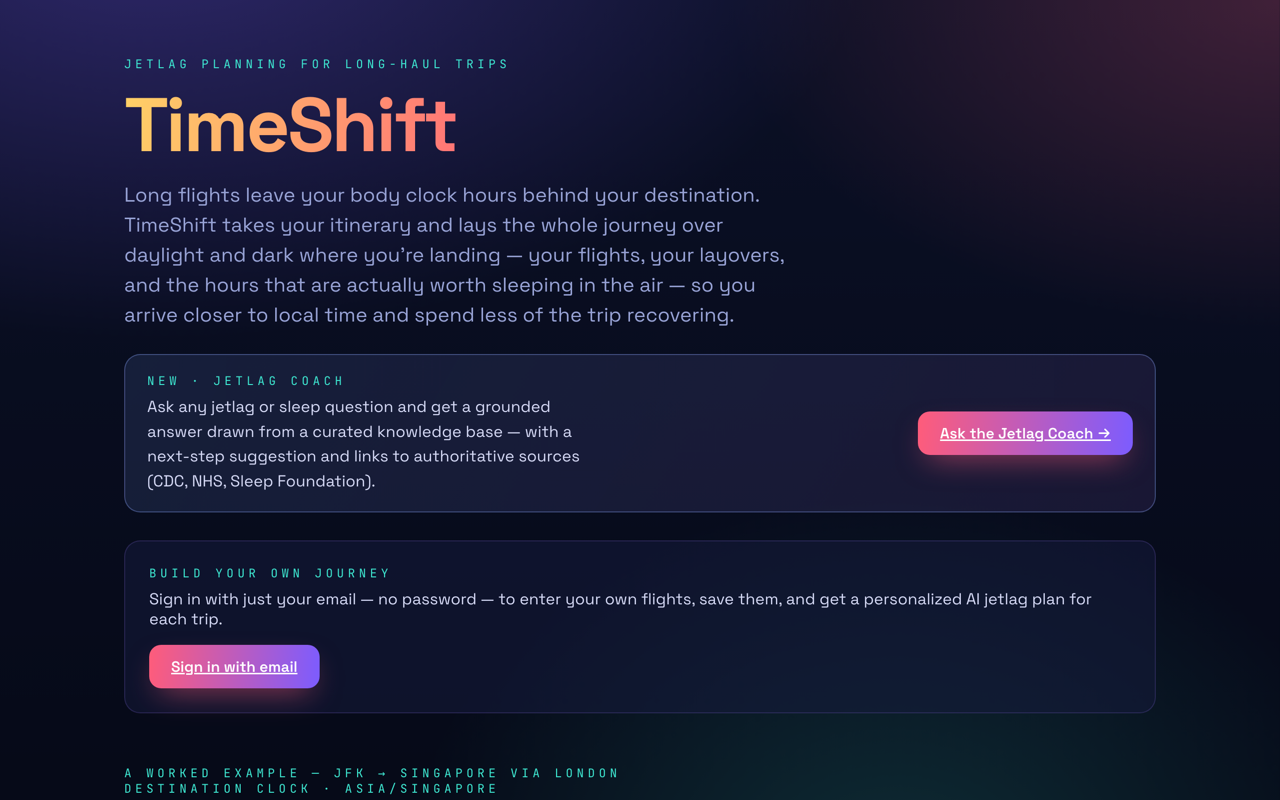
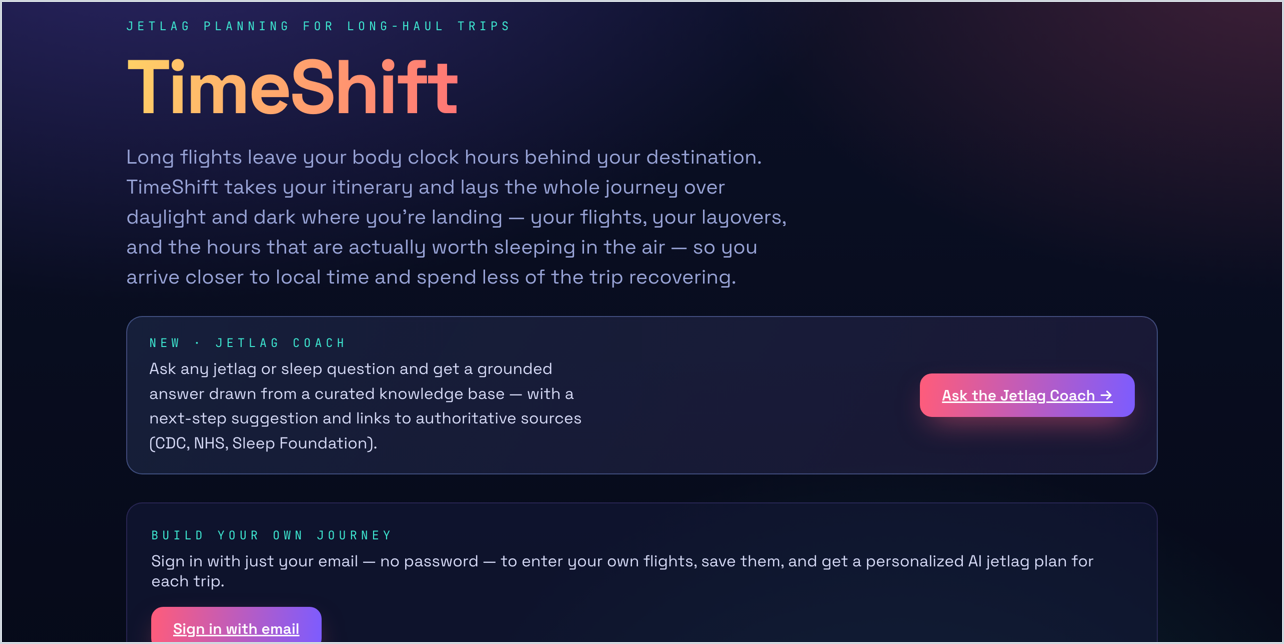
docs: deduplicate the README; crop and frame the hero (#39)
- The colored-screenshot list repeated the log list line-for-line — replaced
  by a one-paragraph convention note; every log link stays
- The three AI features each restated the same I/O-boundary contract — now
  stated once ('The AI boundary — one rule, three features') with per-feature
  sections keeping only their unique mechanics
- Instructor-facing 'Day 1 Deliverables' table becomes a Specs paragraph;
  'Local Development (build phase)' drops the stale phase tag
- Hero cropped to its content band and given a hairline border so it reads
  as a framed screenshot on both GitHub themes

diff --git a/README.md b/README.md
@@ -16,8 +16,8 @@ throughout, with a documented Red → Green → Refactor cycle on the temporal e
 
 **Current state (August 2026):** CI runs typecheck, lint, the full Vitest suite,
 and a production build on every push and pull request
-([`.github/workflows/ci.yml`](.github/workflows/ci.yml)). The home page now
-carries two public showcase trips — NY → Singapore (`+12.0h`) and a LAX → Sydney
+([`.github/workflows/ci.yml`](.github/workflows/ci.yml)). The home page carries
+two public showcase trips — NY → Singapore (`+12.0h`) and a LAX → Sydney
 date-line crossing that surfaces `crossesDateLine` in the UI (US-E3). The
 Jetlag Coach degrades to a grounded extractive answer when the live model call
 fails (US-R). Playwright specs cover both showcases and the coach
@@ -37,34 +37,29 @@ itself for demo-morning checks.
 | Testing      | Vitest (TDD: Red-Green-Refactor)                  |
 | Time/zones   | Luxon (IANA tz database) + SunCalc (sunrise/sunset)|
 
----
+## Specs
 
-## Day 1 Deliverables (for review before build)
-
-These are the specs due before any code is written. Each instructor requirement
-maps to its own document:
-
-| Instructor requirement              | Document                              |
-|-------------------------------------|---------------------------------------|
-| User Stories                        | [`docs/USER_STORIES.md`](docs/USER_STORIES.md) |
-| Acceptance Criteria                 | [`docs/ACCEPTANCE_CRITERIA.md`](docs/ACCEPTANCE_CRITERIA.md) |
-| Specifications                      | [`docs/SPECIFICATIONS.md`](docs/SPECIFICATIONS.md) |
-| Prompts for writing Tests (TDD plan)| [`docs/TDD_PLAN.md`](docs/TDD_PLAN.md) |
-| Context file (guardrails & rules)   | [`CLAUDE.md`](CLAUDE.md)              |
+The build was specified before it was written: user stories in
+[`docs/USER_STORIES.md`](docs/USER_STORIES.md), acceptance criteria in
+[`docs/ACCEPTANCE_CRITERIA.md`](docs/ACCEPTANCE_CRITERIA.md), technical
+specifications in [`docs/SPECIFICATIONS.md`](docs/SPECIFICATIONS.md), the
+test-writing plan in [`docs/TDD_PLAN.md`](docs/TDD_PLAN.md), and the operating
+contract (guardrails, TDD law, AI boundary) in [`CLAUDE.md`](CLAUDE.md).
 
 ---
 
 ## Test Evidence (TDD)
 
-> Populated during the sprint from real runs. Captures are numbered **per unit** in
+> Captured from real runs during the sprint. Captures are numbered **per unit** in
 > `docs/TDD_PLAN.md` order (`NN-name`), so the numbering tracks the units built rather
-> than one entry per phase. Only links to committed files appear below; unbuilt phases
-> are listed as pending.
-
-### TDD cycle logs (Red → Green → Refactor)
+> than one entry per phase.
 
 Each unit's failing and passing runs are piped to `docs/logs/` and committed
-alongside the code that produced them.
+alongside the code that produced them. **Every log below also exists as a colored
+screenshot** in `docs/screenshots/` under the same `NN-name` — red runs render the
+failing assertions in red, green runs the passing suite in green, both produced
+from the same run as the log via `npm run capture -- <NN-name-(red|green)> <vitest args>`
+(`scripts/capture-tdd.sh` + `scripts/render-tdd.mjs`).
 
 **Phase 0 — Harness**
 
@@ -121,7 +116,7 @@ alongside the code that produced them.
 
 - Scale helper (time → x) — [`20-scale-red.txt`](docs/logs/20-scale-red.txt) → [`20-scale-green.txt`](docs/logs/20-scale-green.txt)
 
-**AI advice feature (US-F1)** — the deterministic glue, driven Red → Green against a **mocked** model client (no key required):
+**AI advice feature (US-F1)** — the deterministic glue, driven Red → Green against a **mocked** model client:
 
 - Prompt carries the facts — [`10-ai-prompt-red.txt`](docs/logs/10-ai-prompt-red.txt) → [`10-ai-prompt-green.txt`](docs/logs/10-ai-prompt-green.txt)
 - Prompt branch coverage — [`15-ai-prompt-branches-green.txt`](docs/logs/15-ai-prompt-branches-green.txt) (green only — pins westward/IDL/no-sleep branches)
@@ -160,128 +155,83 @@ captured from real runs: [`21-full-suite-green.txt`](docs/logs/21-full-suite-gre
 (statements/branches/functions/lines all 100% across `lib/engine/` + `lib/ai/`, with
 `lib/ai/client.ts` excluded as the live-network module).
 
-### TDD cycle screenshots (colored Red → Green)
+---
 
-Each run above is also captured as a colored screenshot — produced from the same run as
-its log via `npm run capture -- <NN-name-(red|green)> <vitest args>` (see
-`scripts/capture-tdd.sh` + `scripts/render-tdd.mjs`). Red runs render failing tests and
-assertion errors in red; green runs render the passing suite in green. Images share the
-`NN-name` numbering of the logs:
+## The AI boundary — one rule, three features
 
-- Sanity check — `docs/screenshots/00-sanity-green.png`
-- Offsets (EST/EDT) — `docs/screenshots/01-offsets-red.png` → `docs/screenshots/01-offsets-green.png`
-- Spring-forward gap — `docs/screenshots/02-springforward-red.png` → `docs/screenshots/02-springforward-green.png`
-- Fall-back ambiguous hour — `docs/screenshots/03-fallback-green.png` (green only — see note above)
-- Duration across leap day — `docs/screenshots/04-leapyear-red.png` → `docs/screenshots/04-leapyear-green.png`
-- Add-year clamping — `docs/screenshots/05-addyear-red.png` → `docs/screenshots/05-addyear-green.png`
-- West crossing (Tokyo → LA) — `docs/screenshots/06-idl-tokyo-red.png` → `docs/screenshots/06-idl-green.png`
-- Non-crossing guard (JFK → LHR) — `docs/screenshots/06-idl-noncrossing-red.png` → `docs/screenshots/06-idl-green.png`
-- East crossing leap (LA → Sydney) — `docs/screenshots/07-idl-sydney-red.png` → `docs/screenshots/07-idl-sydney-green.png`
-- Sunrise/sunset tiling — `docs/screenshots/08-arcs-red.png` → `docs/screenshots/08-arcs-green.png`
-- Segments + layover axis — `docs/screenshots/09-timeline-red.png` → `docs/screenshots/09-timeline-green.png`
-- Red-eye sleep window — `docs/screenshots/16-sleep-redeye-red.png` → `docs/screenshots/16-sleep-redeye-green.png`
-- Daytime hop / layover (green only) — `docs/screenshots/17-sleep-daytime-green.png`, `docs/screenshots/18-sleep-layover-green.png`
-- Timeline scale helper — `docs/screenshots/20-scale-red.png` → `docs/screenshots/20-scale-green.png`
-- AI prompt / parse / generate (US-F1) — `docs/screenshots/10-ai-prompt-*.png`, `11-ai-parse-ok-*.png`, `12-ai-parse-bad-*.png`, `13-ai-generate-ok-*.png`, `14-ai-generate-fail-*.png`, `15-ai-prompt-branches-green.png`
-- Engine → facts adapter — `docs/screenshots/19-ai-facts-red.png` → `docs/screenshots/19-ai-facts-green.png`
+Every AI-adjacent feature follows the same contract (CLAUDE.md §13): the
+deterministic surface (prompt assembly, parsing, orchestration, retrieval,
+validation) is pure, server-only, driven Red → Green against **mocked** clients,
+and held at **100% coverage** including malformed-response and failure branches.
+Exactly one module per feature touches the network; each is excluded from
+coverage with an explicit `/* v8 ignore file */` pragma and exercised only in
+the live demo. Keys live in `.env.local` (gitignored); `.env.example` documents
+variable names with no values. **The suite and coverage pass with no key
+present**, and live model output is never snapshot-asserted — it is
+non-deterministic by nature.
 
-### AI advice feature — what is mocked-and-tested vs live-and-demo-only
+### AI advice (US-F1) — live-verified
 
-> The engine and the AI glue (prompt assembly, response parsing, orchestration)
-> are unit-tested deterministically with a **mocked** model client; the suite runs
-> with no API key. The **live model call** is exercised in the demo with a real
-> key. Model output is non-deterministic by nature, so it is never snapshot-asserted.
-
-`lib/ai/` is server-only (CLAUDE.md §13). `facts.ts`, `prompt.ts`, `parse.ts`, and
-`advice.ts` are pure and held at 100% coverage — including the malformed-response and
-client-error branches. `lib/ai/client.ts` is the single module that touches the network
-(the Google Gen AI SDK); it is excluded from coverage with an explicit `/* v8 ignore file */`
-pragma and is exercised only in the demo. The API key lives in `.env.local` (gitignored);
-`.env.example` documents the variable name with no value. Tests and coverage pass with no
-key present.
-
-**Verified live.** With a real `GEMINI_API_KEY` set, the panel makes a genuine per-trip
-Gemini call (`gemini-3.1-flash-lite`, with a fastest-first fallback chain that drops to
-lighter models on a rate limit) that narrates the engine's computed facts — the screenshot
-below quotes the 13-hour shift and the exact in-flight sleep window:
+With a real `GEMINI_API_KEY` set, the per-trip panel makes a genuine Gemini call
+(`gemini-3.1-flash-lite`, with a fastest-first fallback chain that drops to
+lighter models on a rate limit) that narrates the engine's computed facts — the
+screenshot quotes the 13-hour shift and the exact in-flight sleep window. The
+network module is `lib/ai/client.ts`; without a key the timeline renders fully
+and only the "Get my jetlag plan" button degrades.
 
 ![Live AI-generated plan](docs/screenshots/app-ai-live.png)
 
-### Jetlag Coach (grounded RAG) — what is mocked-and-tested vs live-and-demo-only
+### Jetlag Coach (US-R) — grounded RAG with verifiable citations
 
-> A standalone `/coach` page answers a free-form jetlag question **only** from
-> TimeShift's curated knowledge base: it retrieves the most relevant passages,
-> grounds the answer in them, adds a **next-step follow-up**, **cites verifiable
-> external sources** (CDC, NHS, Sleep Foundation, …), and **refuses honestly**
-> when the question falls outside the KB.
+A standalone `/coach` page answers a free-form jetlag question **only** from
+TimeShift's curated knowledge base: **55 hand-authored markdown docs** under
+[`docs/kb/`](docs/kb/), chunked by `##` heading (~220 passages), each carrying
+YAML frontmatter that names a real authoritative source. The coach cites **those
+external links** (CDC, NHS, Sleep Foundation, …) — never an internal filename,
+and never anything the model invented: citations derive from the *retrieved*
+docs' metadata, so a fabricated source is impossible by construction. Every
+answer includes a grounded **next-step follow-up**.
 
-**Retrieval is grounded and the citations are verifiable (AC-R1/R3).** The
-knowledge base is **55 hand-authored markdown docs** under [`docs/kb/`](docs/kb/),
-chunked by `##` heading (~220 passages). Each doc carries YAML frontmatter naming a
-real, authoritative source (an org title + URL), and the coach cites **those
-external links** — never the internal filename, and never anything the model made
-up. Citations are derived from the *retrieved* docs' metadata, so the model cannot
-fabricate a source by construction. Retrieval is **semantic** — Google embeddings +
-cosine over precomputed chunk vectors (`docs/kb/kb-embeddings.json`) — when a key
-and those vectors are present, and falls back to a **lexical TF-IDF-cosine** search
-when not, so the feature works **keyless**. A refusal gate (`decideAnswerable`)
-drops any question whose best passage doesn't clear the threshold *before* any
-model call (AC-R2). Every answer also includes a **follow-up**: the single most
-logical next step, grounded in the same retrieved context.
-
-**Mocked-and-unit-tested (no key, 100% coverage).** `lib/rag/` (chunking, vector
-search, lexical fallback, refusal gate) and the `lib/ai/` coach glue
-(`buildGroundedPrompt`, `parseGroundedResponse`, `answerQuestion`) are pure and
-held at **100%** — including the malformed-response and generation-failure
-branches. The two I/O shells, `lib/rag/embed.ts` (the query-embedding network
-call) and `lib/rag/corpus.ts` (filesystem KB load), are the only modules excluded
-from coverage, each with an explicit `/* v8 ignore file */` pragma (CLAUDE.md
-§13). The whole suite and coverage pass with **no API key** (AC-R4/R5).
-
-**Live-and-demo-only.** Two things spend a real key: regenerating the KB vectors
-(`npm run embed:kb`, model `gemini-embedding-001` at 768 dims) and the answer
-**generation** (the same `GEMINI_API_KEY` and Gemini client as the advice
-feature). Keyless, the coach still answers and cites sources, composing the
-answer **extractively** from the retrieved passages; with a key it upgrades to an
-LLM-written answer — the **Sources are identical either way**, since they come
-from retrieval, not the model. The refusal gate is **path-aware**: embedding
-cosine and TF-IDF cosine sit on different scales, so each path has its own
-threshold (`COACH_THRESHOLD_SEMANTIC` ≈ 0.62, `COACH_THRESHOLD_LEXICAL` ≈ 0.25),
-both env-overridable. On the 55-doc KB the semantic path separates cleanly
-(on-topic ≈0.75–0.82 vs off-topic ≈0.49–0.52); the keyless lexical fallback is
-weaker, so it gates conservatively. Model output is non-deterministic, so it is
-never snapshot-asserted; the E2E (below) runs keyless for a deterministic grounded
-answer + refusal.
+Retrieval is **semantic** (Google embeddings + cosine over precomputed vectors
+in `docs/kb/kb-embeddings.json`) when a key and vectors are present, with a
+**lexical TF-IDF-cosine fallback** so the feature works keyless — composing the
+answer extractively; with a key it upgrades to an LLM-written answer, and the
+**Sources are identical either way** since they come from retrieval, not the
+model. A refusal gate (`decideAnswerable`) drops any question whose best passage
+misses the threshold *before* any model call (AC-R2). The gate is
+**path-aware** — embedding cosine and TF-IDF cosine sit on different scales, so
+each path has its own env-overridable threshold (`COACH_THRESHOLD_SEMANTIC` ≈
+0.62, `COACH_THRESHOLD_LEXICAL` ≈ 0.25); on the 55-doc KB the semantic path
+separates cleanly (on-topic ≈0.75–0.82 vs off-topic ≈0.49–0.52), and the weaker
+lexical path gates conservatively. Network/IO shells: `lib/rag/embed.ts` (query
+embedding) and `lib/rag/corpus.ts` (filesystem KB load); regenerating vectors is
+`npm run embed:kb` (`gemini-embedding-001`, 768 dims). The E2E runs keyless for
+a deterministic grounded answer + refusal.
 
 ![Grounded coach answer with sources](docs/screenshots/e2e-coach-grounded.png)
 
-### Real flight selection — what is mocked-and-tested vs live-and-demo-only
+### Real flight selection — search, pick, and the leg fills itself
 
-> Rather than hand-typing airports and times, a traveler searches **real flights** by
-> route + date, gets a sortable list, and picks one — the leg is filled with accurate
-> scheduled times, IANA zones, terminals, and coordinates, so layovers compute from real
-> gaps and input errors disappear. The manual builder remains as a fallback.
-
-`lib/flights/` mirrors the AI boundary (CLAUDE.md §13): `validate.ts`, `parse.ts`,
-`sort.ts`, `status.ts`, `coords.ts`, and `cache.ts` are pure/deterministic and held at
-**100% coverage** — including malformed-response, missing-field, IDL, and TTL branches.
-`lib/flights/client.ts` is the single module that touches the network (AviationStack); it
-is excluded from coverage with a `/* v8 ignore file */` pragma and exercised only in the
-demo. The search route is session-gated, validates params before any upstream call, and
-serves a **6-hour DB cache** (`FlightQueryCache`) to protect the free tier's ~100 req/month.
-The key lives in `.env.local` (gitignored); `.env.example` documents the name only. **The
-suite and coverage pass with no key** — keyless, the route returns a friendly error and the
-UI falls back to manual entry.
+Rather than hand-typing airports and times, a traveler searches **real flights**
+by route + date, gets a sortable list, and picks one — the leg fills with
+accurate scheduled times, IANA zones, terminals, and coordinates, so layovers
+compute from real gaps. The manual builder remains as a fallback. `lib/flights/`
+(`validate.ts`, `parse.ts`, `sort.ts`, `status.ts`, `coords.ts`, `cache.ts`) is
+the pure surface — including malformed-response, missing-field, IDL, and TTL
+branches; `lib/flights/client.ts` is the network module (AviationStack). The
+search route is session-gated, validates params before any upstream call, and
+serves a **6-hour DB cache** (`FlightQueryCache`) to protect the free tier's
+~100 req/month — keyless, the route returns a friendly error and the UI falls
+back to manual entry. A leg departing within ~48h also shows a **live status
+badge** (on-schedule / delayed / cancelled); trips planned weeks out have no
+delay data yet, so future legs show scheduled-only by design. The free tier is
+HTTP-only — a paid HTTPS plan is recommended for production.
 
 ![Flight search in the builder](docs/screenshots/flight-search-builder.png)
 
-A leg whose departure is within ~48h additionally shows a **live status badge**
-(on-schedule / delayed / cancelled) from the same client — a trip planned weeks out has no
-delay data yet, so future legs show scheduled-only by design. **Live-and-demo-only:** the
-free tier is HTTP-only (a paid HTTPS plan is recommended for production), the live call
-needs a real `AVIATIONSTACK_API_KEY`, and AviationStack output is never snapshot-asserted.
+---
 
-### Data layer
+## Data layer
 
 Five tables — `User 1→* Trip 1→* FlightSegment` plus `User 1→* Session` (for auth) and a
 standalone `FlightQueryCache` (the flight-search TTL cache) — defined in
@@ -296,7 +246,7 @@ ownership-scoped `findFirst` with an ordered `include` on segments. Schema, migr
 the thin query layer are configuration/integration, not TDD'd — the engine remains the TDD
 showcase.
 
-### End-to-end verification
+## End-to-end verification
 
 The running app, captured from `http://localhost:3000/` via a headless browser. The
 landing pairs a trip builder with a fully-worked example:
@@ -311,19 +261,16 @@ ownership-scoped fetch → engine → render) and lands on a per-trip page:
 
 The pages were asserted against the engine's headline numbers — trip name, computed clock
 shift (`+12.0h` for the NY → Singapore showcase), destination axis labels, and the in-air
-sleep window over the destination's night. The **"AI-generated" panel is present** and
-degrades cleanly without a key; its live model call is demo-only (it needs `GEMINI_API_KEY`
-in `.env.local`) and is never snapshot-asserted.
-
-These numbers are now locked in by a committed Playwright regression spec
-(`e2e/regression.spec.ts`, run with `npm run test:e2e`): it seeds the showcase trip, opens
-the running app, and re-asserts the trip name, the `+12.0h` clock shift, the home/destination
-zones, the flight legs, and the recommended sleep window — so a temporal-engine regression
-fails the check rather than slipping through. It is a test, not just a screenshotter (§8.B).
+sleep window over the destination's night. These numbers are locked in by a committed
+Playwright regression spec (`e2e/regression.spec.ts`, run with `npm run test:e2e`): it
+seeds the showcase trip, opens the running app, and re-asserts the trip name, the `+12.0h`
+clock shift, the home/destination zones, the flight legs, and the recommended sleep window —
+so a temporal-engine regression fails the check rather than slipping through. It is a test,
+not just a screenshotter (§8.B).
 
 ---
 
-## Local Development (build phase)
+## Local Development
 
 ```bash
 # 1. Install
